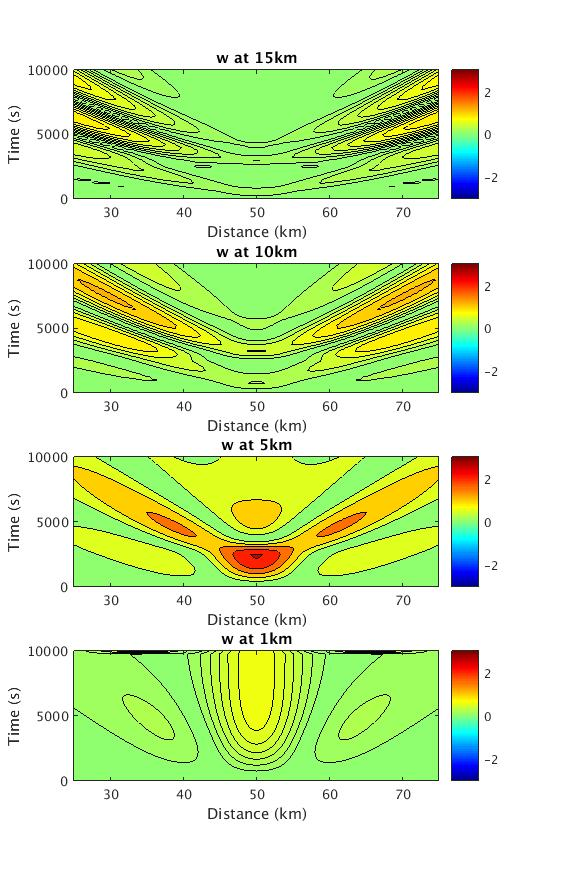
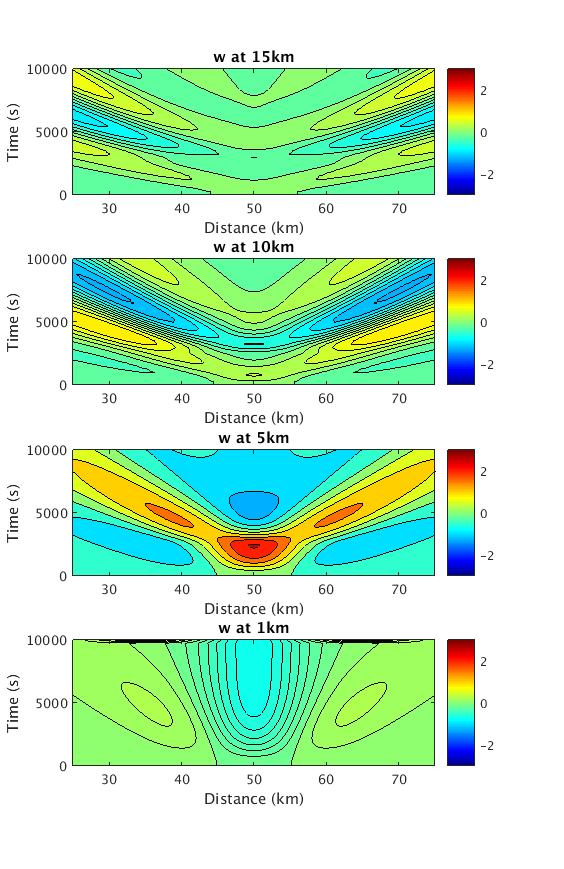
Corrected some difference images

diff --git a/t-dependent Heating/collect_w_4.m b/t-dependent Heating/collect_w_4.m
@@ -9,172 +9,172 @@ Ht_bar  = 0.3367;
 T       = 1500;
 
 h(1)  =  subplot(3,3,1);
-HL_bar   = 19.993;
+HL_bar   = 99.993;
 HV_bar   = 20.005;
 t        = 500;     % non-dimensional time
-sigma    = 1 ;
+sigma    = 5 ;
 %t        = t * sigma; % to get corresponds in time between panels
 [ xx, zz, psi, ww1 ] = series_half_sinusoid_plots_3(HL_bar , HV_bar, t, T, sigma);
 contourf(xx,zz,ww1,30);
 % axis tight
 colorbar
-caxis([ -100 100])
+caxis([ -1 1])
 grid on
 axis equal
 x = sprintf('w structure at t =%6.1f, H=%6.1f*H_t',t,HL_bar);
 title(x);
-xlabel('x / sigma');
+xlabel('x ');
 ylabel('z / Ht');
 
 
 % lid height 3
 h(2)  =  subplot(3,3,4) ;
-HL_bar   = 19.993;
+HL_bar   = 99.993;
 HV_bar   = 20.005;
 t        = 1000;
-sigma    = 1 ;
+sigma    = 5 ;
 %t        = t * sigma;
 [ xx, zz, psi, ww2 ] = series_half_sinusoid_plots_3(HL_bar , HV_bar, t, T, sigma);
 contourf(xx,zz,ww2,30);
 colorbar
-caxis([ -100 100])
+caxis([ -1 1])
 %axis tight
 grid on
 axis equal
 x = sprintf('w structure at t =%6.1f, H=%6.1f*H_t',t,HL_bar);
 title(x);
-xlabel('x / sigma');
+xlabel('x ');
 ylabel('z / Ht');
 
 % lid height 1
 h(3)  =  subplot(3,3,7); 
-HL_bar   = 19.993;
+HL_bar   = 99.993;
 HV_bar   = 20.005;
 t        = 1500;
-sigma    = 1 ;
+sigma    = 5 ;
 %t        = t * sigma;
 [ xx, zz, psi,ww3 ] = series_half_sinusoid_plots_3(HL_bar , HV_bar, t, T, sigma);
 contourf(xx,zz,ww3,30);
 colorbar
-caxis([ -100 100])
+caxis([ -1 1])
 %axis tight
 grid on
 axis equal
 x = sprintf('w structure at t =%6.1f, H=%6.1f*H_t',t,HL_bar);
 title(x);
-xlabel('x / sigma');
+xlabel('x ');
 ylabel('z / Ht');
 
 % lid height 1
 h(4)  =  subplot(3,3,2); 
-HL_bar   = 19.993;
+HL_bar   = 99.993;
 HV_bar   = 20.005;
 t        = 500;
-sigma    = 0.25 ;
-%t        = t * sigma;
+sigma    = 1 ;
+t        = t * sigma;
 [ xx, zz, psi,ww4 ] = series_half_sinusoid_plots_3(HL_bar , HV_bar, t, T, sigma);
 contourf(xx,zz,ww4,30);
 colorbar
-caxis([ -100 100])
+caxis([ -1 1])
 %axis tight
 grid on
 axis equal
 x = sprintf('w structure at t =%6.1f, H=%6.1f*H_t',t,HL_bar);
 title(x);
-xlabel('x / sigma');
+xlabel('x ');
 ylabel('z / Ht');
 
 % lid height 1
 h(5)  =  subplot(3,3,5); 
-HL_bar   = 19.993;
+HL_bar   = 99.993;
 HV_bar   = 20.005;
 t        = 1000;
-sigma    = 0.25 ;
-%t        = t * sigma;
+sigma    = 1 ;
+t        = t * sigma;
 [ xx, zz, psi,ww5 ] = series_half_sinusoid_plots_3(HL_bar , HV_bar, t, T, sigma);
 contourf(xx,zz,ww5,30);
 colorbar
-caxis([ -100 100])
+caxis([ -1 1])
 %axis tight
 grid on
 axis equal
 x = sprintf('w structure at t =%6.1f, H=%6.1f*H_t',t,HL_bar);
 title(x);
-xlabel('x / sigma');
+xlabel('x ');
 ylabel('z / Ht');
 
 % lid height 1
 h(6)  =  subplot(3,3,8); 
-HL_bar   = 19.993;
+HL_bar   = 99.993;
 HV_bar   = 20.005;
 t        = 1500;
-sigma    = 0.25 ;
-%t        = t * sigma;
+sigma    = 1 ;
+t        = t * sigma;
 [ xx, zz, psi,ww6 ] = series_half_sinusoid_plots_3(HL_bar , HV_bar, t, T, sigma);
 contourf(xx,zz,ww6,30);
 colorbar
-caxis([ -100 100])
+caxis([ -1 1])
 %axis tight
 grid on
 axis equal
 x = sprintf('w structure at t =%6.1f, H=%6.1f*H_t',t,HL_bar);
 title(x);
-xlabel('x / sigma');
+xlabel('x ');
 ylabel('z / Ht');
 
 h(7)  =  subplot(3,3,3); 
-HL_bar   = 19.993;
+HL_bar   = 99.993;
 HV_bar   = 20.005;
 t        = 1500;
-sigma    = 0.25 ;
+sigma    = 1 ;
 ww7      = ww1 - ww4;
 contourf(xx,zz,ww7,30);
 colorbar
-caxis([ -100 100])
+caxis([ -1 1])
 %axis tight
 grid on
 axis equal
 x = sprintf('w structure at t =%6.1f, H=%6.1f*H_t',t,HL_bar);
 title('difference');
-xlabel('x / sigma');
+xlabel('x ');
 ylabel('z / Ht');
 
 h(8)  =  subplot(3,3,6); 
-HL_bar   = 19.993;
+HL_bar   = 99.993;
 HV_bar   = 20.005;
 t        = 1500;
-sigma    = 0.25 ;
+sigma    = 1 ;
 ww8      = ww2 - ww5;
 contourf(xx,zz,ww8,30);
 colorbar
-caxis([ -100 100])
+caxis([ -1 1])
 %axis tight
 grid on
 axis equal
 x = sprintf('w structure at t =%6.1f, H=%6.1f*H_t',t,HL_bar);
 title('difference');
-xlabel('x / sigma');
+xlabel('x ');
 ylabel('z / Ht');
 
 h(9)  =  subplot(3,3,9); 
-HL_bar   = 19.993;
+HL_bar   = 99.993;
 HV_bar   = 20.005;
 t        = 1500;
 sigma    = 0.25 ;
 ww9      = ww3 - ww6;
 contourf(xx,zz,ww9,30);
 colorbar
-caxis([ -100 100])
+caxis([ -1 1])
 %axis tight
 grid on
 axis equal
 title('difference');
-xlabel('x / sigma');
+xlabel('x');
 ylabel('z / Ht');
 
 
 linkaxes(h)
-xlim([0  10])
+xlim([0  20])
 ylim([0 10])
 
 % figure (2)

diff --git a/t-dependent Heating/Hovmoller_diff.m b/t-dependent Heating/Hovmoller_diff.m
@@ -147,7 +147,7 @@ figure(3)
 h(1) = subplot(4,1,1) ;
 xx1 = xx1 ;
 %tt  = tt * pi * sigma / N / HL_bar ; 
-contourf(xx1 , tt, w_trop3_diff);
+contourf(xx1 , tt, delta_w3);
 colorbar
 caxis([ -3 3])
 title('w at 15km')
@@ -158,7 +158,7 @@ xlim([25 75])
 h(2) = subplot(4,1,2) ;
 xx1 = xx1 ;
 %tt  = tt * pi * sigma / N / HL_bar ; 
-contourf(xx1 , tt, w_trop2_diff);
+contourf(xx1 , tt, delta_w2);
 colorbar
 caxis([ -3 3])
 title('w at 10km')
@@ -169,7 +169,7 @@ xlim([25 75])
 h(3) = subplot(4,1,3) ;
 xx1 = xx1 ;
 %tt  = tt * pi * sigma / N / HL_bar ; 
-contourf(xx1 , tt, w_trop1_diff);
+contourf(xx1 , tt, delta_w1 );
 colorbar
 title('w at 5km')
 caxis([ -3 3])
@@ -180,7 +180,7 @@ xlim([25 75])
 h(4) = subplot(4,1,4) ;
 xx1 = xx1 ;
 %tt  = tt * pi * sigma / N / HL_bar ; 
-contourf(xx1 , tt, w_trop0_diff);
+contourf(xx1 , tt, delta_w0);
 colorbar
 title('w at 1km')
 caxis([ -3 3])
